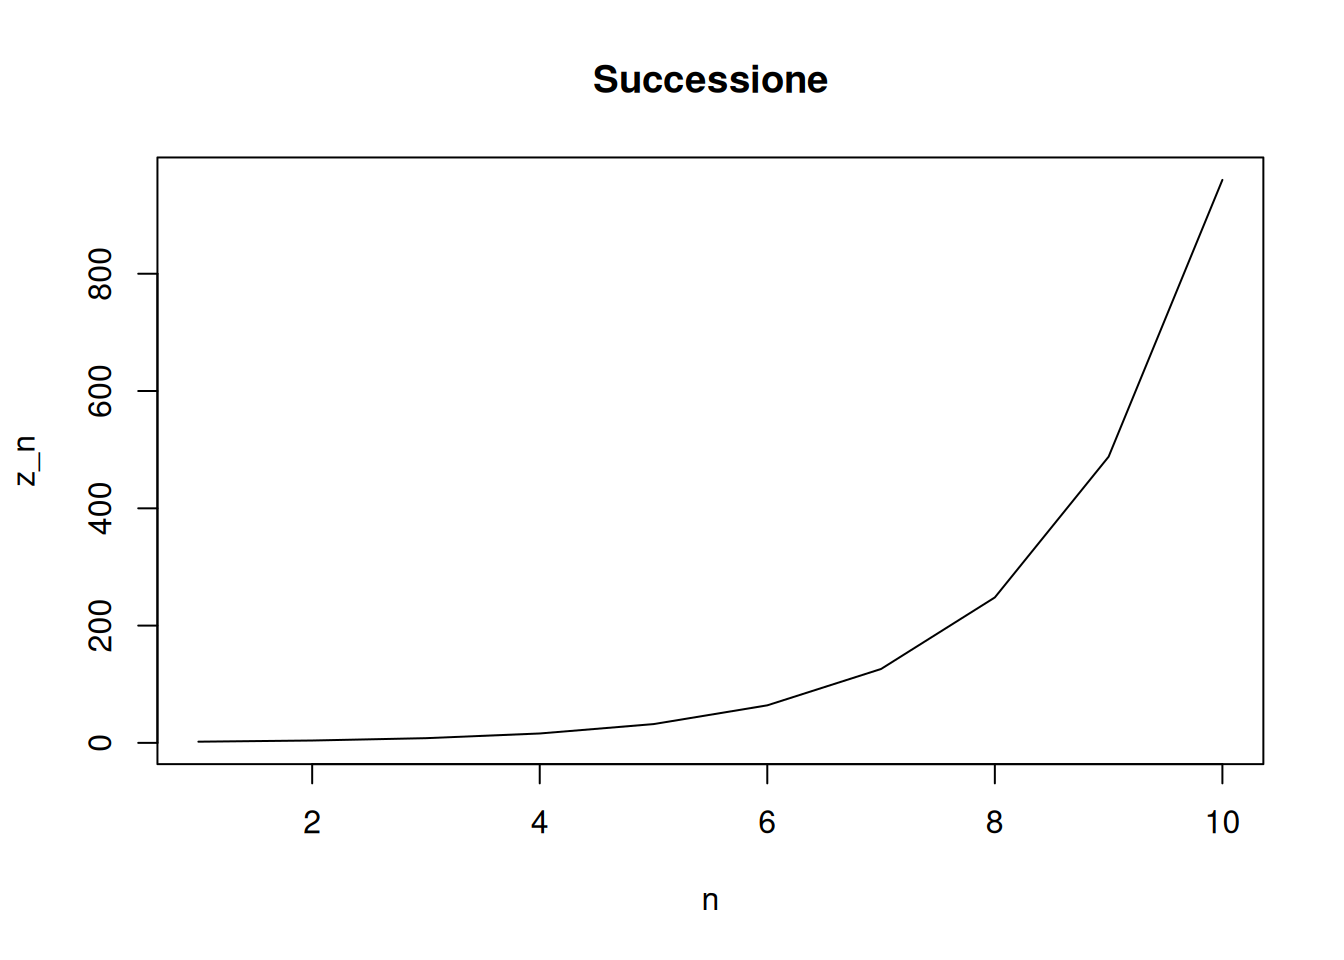
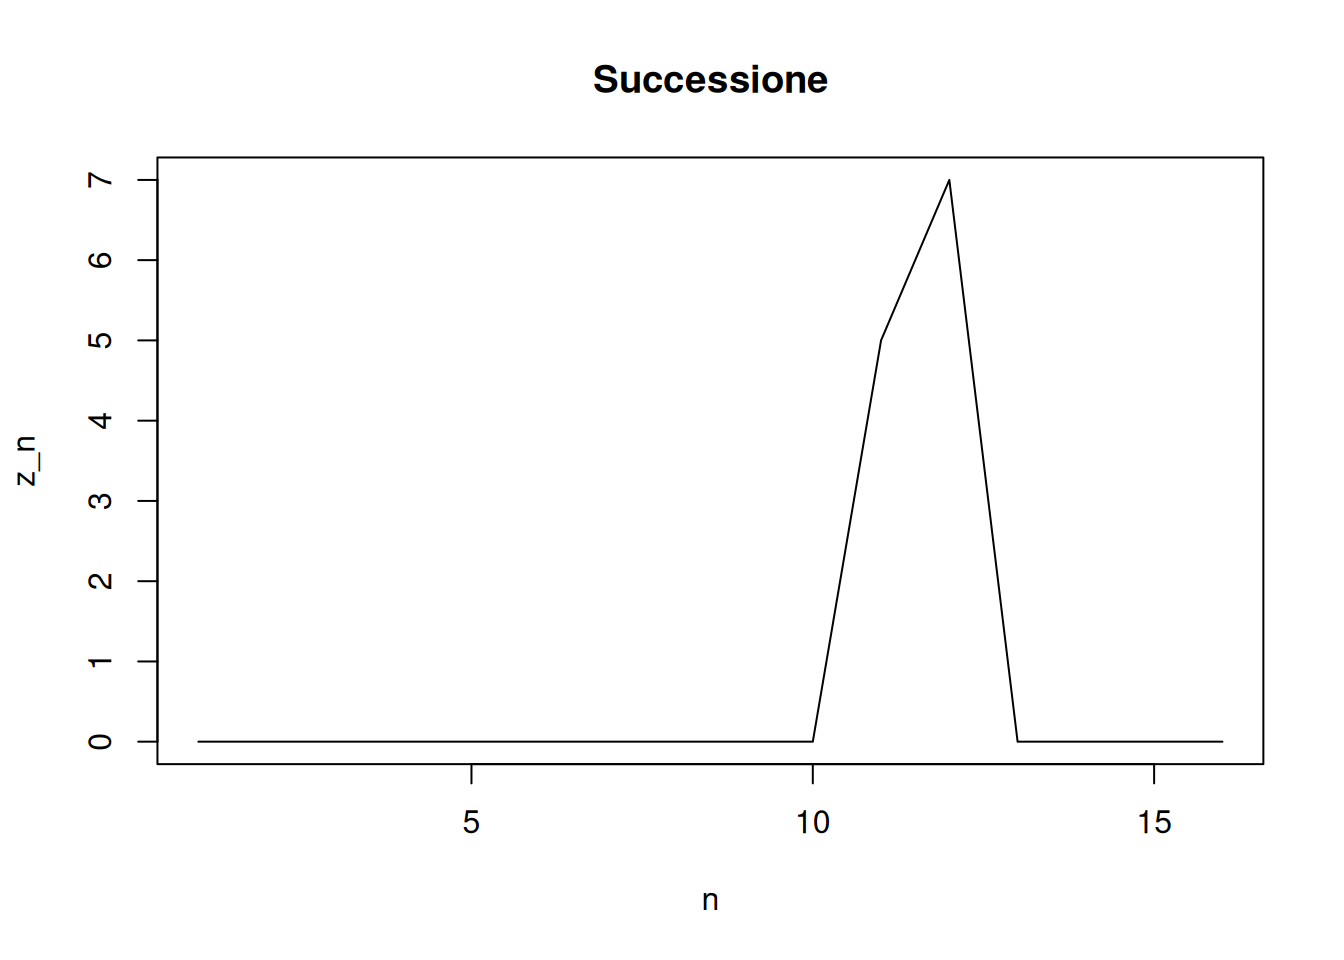
Aggiornamenti automatici

diff --git a/docs/posts/luna/index.html b/docs/posts/luna/index.html
@@ -8,7 +8,7 @@
 
 <meta name="author" content="Matteo Pedani">
 
-<title>La luna – matteo blog</title>
+<title>La luna nel pozzo – matteo blog</title>
 <style>
 code{white-space: pre-wrap;}
 span.smallcaps{font-variant: small-caps;}
@@ -181,7 +181,7 @@ window.Quarto = {
 <header id="title-block-header" class="quarto-title-block default page-columns page-full">
   <div class="quarto-title-banner page-columns page-full">
     <div class="quarto-title column-body">
-      <h1 class="title">La luna</h1>
+      <h1 class="title">La luna nel pozzo</h1>
                                 <div class="quarto-categories">
                 <div class="quarto-category">matematica</div>
               </div>
@@ -228,14 +228,16 @@ window.Quarto = {
 </div>
 <section id="la-matematica-si-insegna-male" class="level3">
 <h3 data-anchor-id="la-matematica-si-insegna-male">La matematica si insegna male!</h3>
-<p>La matematica si insegna nella maggior parte dei casi in maniera meccanica.</p>
-<p>Alle superiori ho fatto il perito agrario, e la matematica che mi è rimasta, era incentrata sulle applicazioni alla topografia, quindi seni, coseni per permettere di fare tringolazioni per fare divisoni terreni e rilevamenti. Altre cose imparate delle formule di matematica finaziaria, per l’interesse, semplice e composto. Ed il numero <span class="math inline">\(e\)</span> non era altro che un espediente per fare calcoli più velocemente.</p>
-<p>Ma alla fine delle superiori data la mia passione per le scienze, mi sono iscritto a fisica. Ma anche all’università, i professori esponevano sempre più velocemente le cose in maniera meccanica. Ed ioc non avevo una preparazione adeguata e capii che non riuscivo ad andare avanti. Mi dedicai al cinema vista che era la mia altra passione. Una passione che coltivavo da quando avevo 14 anni e stampavo le foto in camera oscura. Ho frequentato e diplomato il “Centro Sperimentale di Cinematografia” nella sezione di cinema documentario.</p>
-<p>Tutte queste parole per dire una sola cosa che inizio a comprendere solo adesso, non solo io ero e resto un grande ignorante in matematica. Ma sia il metodo di insegnamento alle superiori, sia all’università, sono aridi, cioè non fanno percepire la reale potenza della matematica. Ma mirano a creare delle persone che possono essere al più dei meri calcolatori. In un mondo dove le macchine sono più brave a fare i calcoli, non è più ammissibile! bisogna puntare all’opposto ad un mondo dove la matematica apre gli occhi ad orizzonti più ampi.</p>
+<section id="ed-io-lho-compresa-peggio" class="level4">
+<h4 data-anchor-id="ed-io-lho-compresa-peggio">(ed io l’ho compresa <strong><em>peggio)</em></strong></h4>
+<p>La matematica si insegna nella maggior parte dei casi in maniera meccanica. Alle superiori ho fatto il perito agrario, e la matematica che mi è rimasta, era incentrata sulle applicazioni alla topografia, quindi seni, coseni per permettere di fare triangolazioni per fare divisioni dei terreni e rilevamenti. Altre cose imparate delle formule di matematica finanziaria, per l’interesse, semplice e composto. Ed il numero <span class="math inline">\(e\)</span> non era altro che un espediente per fare calcoli più velocemente.</p>
+<p>Ma alla fine delle superiori data la mia passione per le scienze, mi sono iscritto a fisica. Ma anche all’università, i professori esponevano sempre più velocemente le cose in maniera meccanica. Ed io non avevo una preparazione adeguata e capii che non riuscivo ad andare avanti. Mi dedicai al cinema vista che era la mia altra passione. Una passione che coltivavo da quando avevo 14 anni e stampavo le foto in camera oscura. Ho frequentato e diplomato il “Centro Sperimentale di Cinematografia” nella sezione di cinema documentario.</p>
+<p>Tutte queste parole per dire una sola cosa che inizio a comprendere solo adesso, non solo io ero e resto un grande ignorante in matematica. Ma sia il metodo di insegnamento alle superiori, sia all’università, sono aridi. Non fanno percepire la reale potenza della matematica. Ma mirano a creare delle persone che possono essere al più dei meri calcolatori. In un mondo dove le macchine sono più brave a fare i calcoli, non è più ammissibile! Bisogna puntare all’opposto ad un mondo dove la matematica apre gli occhi ad orizzonti più ampi.</p>
+</section>
 </section>
 <section id="la-luna-nel-pozzo." class="level2">
 <h2 data-anchor-id="la-luna-nel-pozzo.">La luna nel pozzo.</h2>
-<p><strong><em>Siamo in un mondo che percepiamo a 5 dimensioni ma che potrebbe essere monodimensionale</em></strong> <strong><em>anzi a dimensioni infinite.</em></strong></p>
+<p><strong><em>Siamo in un mondo che percepiamo a 5 dimensioni ma che potrebbe essere monodimensionale</em></strong> <strong><em>anzi a dimensioni infinite?</em></strong></p>
 <p>Una sera dopo una giornata faticosa, sono uscito in giardino, ed ho visto la luna piena, e mi sono detto adesso gli faccio delle foto. Ho preso la macchinetta fotografica il cavalletto ed ho iniziato a scattare le foto. Naturalmente dopo pochi minuti la luna <em>scappava</em> dall’inquadratura per effetto della rotazione terrestre.</p>
 <p>Poi dopo un po’ mi sono chiesto: E se io potessi aumentare la risoluzione, interpolando una serie di foto del cielo mentre si muove? Così ho fotografato il cielo, facendo delle foto nel più breve tempo possibile dalla macchinetta fotografica.</p>
 <p>Quindi ho preso carta e matita ed ho disegnato uno schema del cielo l’obbiettivo della macchina fotografica ed il sensore, cercando di visualizzare la relazione tra di loro.</p>
@@ -364,23 +366,19 @@ window.Quarto = {
 </tr>
 </tbody>
 </table>
-<p>ma poi ho detto, facciamo le cose più semplici facciamo una riga per volta. E poi mi sono detto “facciamo finta che” io so quale è il valore del cielo a più alta risoluzione. Il valore del cielo che leggo con il sensore non è altro che lo somma in un dato intorno. Ed ipotizziamo che il cielo non cambi tra uno scatto e l’altro. Allora ho scritto due sequenze di numeri. La prima lista era la lista del valore di luminosità delle stelle ad alta risoluzione, ipotizzando che tra una foto e l’altra il cielo si sposti di un <span class="math inline">\(1/k\)</span> di pixel, ne ho fatto la somma ogni <span class="math inline">\(k\)</span>, e visto che la macchina foto grafica non mi avrebbe dato valori infiniti ma numeri interi con un valore massimo finito. Ho limitato i miei numeri da 0 fino a 9. Bene! Ho preso carta e matita e mi sono messo a fare i conti.</p>
+<p>Poi ho detto, facciamo le cose più semplici facciamo una riga per volta. E poi mi sono detto “facciamo finta che” io so quale è il valore del cielo a più alta risoluzione. Il valore del cielo che leggo con il sensore non è altro che lo somma in un dato intorno. Ed ipotizziamo che il cielo non cambi tra uno scatto e l’altro. Ho scritto due sequenze di numeri. La prima lista era la lista del valore di luminosità delle stelle ad alta risoluzione, ipotizzando che tra una foto e l’altra il cielo si sposti di un <span class="math inline">\(1/k\)</span> di pixel, ne ho fatto la somma ogni <span class="math inline">\(k\)</span>, e visto che la macchina foto grafica non mi avrebbe dato valori infiniti ma numeri interi con un valore massimo finito. Ho limitato i miei numeri da 0 fino a 9. Bene! Ho preso carta e matita e mi sono messo a fare i conti.</p>
 <p><strong>Cielo A</strong></p>
-<p><span class="math inline">\((1,3,4,5,1,0,2,3,6,4,7,5,7,0,,,)\)</span></p>
+<p><span class="math inline">\((a_0,a_1,a_2,a_3,...,a_n)\)</span></p>
 <p><strong>Sensore B</strong></p>
-<p><span class="math inline">\((13,13,10,8,6,11,15,20,22,23,19,12,7,0)\)</span></p>
+<p><span class="math inline">\((b_0,b_1,b_2,b_3,...,b_n)\)</span></p>
 <p>In pratica ho due insiemi <span class="math inline">\(A\)</span> e <span class="math inline">\(B\)</span> dove ogni termine di <span class="math inline">\(B\)</span> è dato dalla somma dei <span class="math inline">\(k\)</span> termini di <span class="math inline">\(A\)</span> ad esempio con <span class="math inline">\(K=4\)</span></p>
 <p><span class="math display">\[
 b_n = a_{n-3} + a_{n-2} + a_{n-1} + a_{n-0}
 \]</span></p>
-<p>cioè per k generico ogni termine <span class="math inline">\(b_n\)</span></p>
-<p><span class="math display">\[
-b_n = a_{n-k-1} + a_{n-k-2} + a_{n-k-3} + ... + a_{n-k-k}
-\]</span></p>
 <p>Da come abbiamo definito <span class="math inline">\(A\)</span> e <span class="math inline">\(B\)</span> possiamo calcolare “quasi” ogni punto di <span class="math inline">\(B\)</span> è uguale alla sommatoria di <span class="math inline">\(k\)</span> punti precedenti ad <span class="math inline">\(A\)</span></p>
 <p>E qui mi sono fermato per parecchio tempo, in pratica non conoscevo neanche il modo per comunicare quello che immaginavo, non avevo parole per comunicarlo.</p>
 <p>Mi sono messo a studiare. Ma la vastità degli argomenti é tale che ogni volta ne ero affascinato.</p>
-<p>Facendo queste considerazioni abbiamo anche detto che ad ogni passo <span class="math inline">\(t\)</span> ci spostiamo di <span class="math inline">\(1\)</span></p>
+<p>Facendo queste considerazioni abbiamo anche detto che ad ogni passo <span class="math inline">\(k\)</span> ci spostiamo di <span class="math inline">\(1\)</span></p>
 <p>E guardando meglio ci accorgiamo che non è tanto importante tutta sommatoria ma il primo e l’ultimo termine della sommatoria. E che la sommatoria potrebbe essere fatta <span class="math inline">\(k = 1000\)</span> oppure <span class="math inline">\(k = 50\)</span> oppure <span class="math inline">\(k =3\)</span> e sarebbero importanti solo i termini <span class="math inline">\(a_k\)</span> e <span class="math inline">\(a_0\)</span></p>
 <p><span class="math display">\[ B = \int A\]</span> <span class="math display">\[A = \Delta B \]</span></p>
 <p>Ora</p>
@@ -392,7 +390,7 @@ b_n = a_{n-k-1} + a_{n-k-2} + a_{n-k-3} + ... + a_{n-k-k}
 <p>Iniziamo quindi definendo la sequenza iniziale <span class="math inline">\(a_1\)</span> come:</p>
 <div class="cell">
 <div class="sourceCode cell-code" id="cb1"><pre class="sourceCode r code-with-copy"><code class="sourceCode r"><span id="cb1-1"><a href="#cb1-1" aria-hidden="true" tabindex="-1"></a><span class="co"># Definizione della sequenza iniziale</span></span>
-<span id="cb1-2"><a href="#cb1-2" aria-hidden="true" tabindex="-1"></a>z <span class="ot">&lt;-</span> <span class="fu">c</span>(<span class="dv">3</span>,<span class="dv">6</span>,<span class="dv">7</span>,<span class="dv">9</span>,<span class="dv">2</span>)</span>
+<span id="cb1-2"><a href="#cb1-2" aria-hidden="true" tabindex="-1"></a>z <span class="ot">&lt;-</span> <span class="fu">c</span>(<span class="dv">31</span>,<span class="dv">3</span>,<span class="dv">4</span>,<span class="dv">5</span>,<span class="dv">1</span>,<span class="dv">0</span>,<span class="dv">2</span>,<span class="dv">3</span>,<span class="dv">6</span>,<span class="dv">4</span>,<span class="dv">7</span>,<span class="dv">5</span>,<span class="dv">7</span>,<span class="dv">0</span>,<span class="dv">0</span>,<span class="dv">0</span>,<span class="dv">0</span>)</span>
 <span id="cb1-3"><a href="#cb1-3" aria-hidden="true" tabindex="-1"></a></span>
 <span id="cb1-4"><a href="#cb1-4" aria-hidden="true" tabindex="-1"></a><span class="co"># Numero di elementi nella sequenza iniziale</span></span>
 <span id="cb1-5"><a href="#cb1-5" aria-hidden="true" tabindex="-1"></a>n <span class="ot">&lt;-</span> <span class="fu">length</span>(z)</span>
@@ -415,7 +413,7 @@ b_n = a_{n-k-1} + a_{n-k-2} + a_{n-k-3} + ... + a_{n-k-k}
 </div>
 <div class="sourceCode cell-code" id="cb3"><pre class="sourceCode r code-with-copy"><code class="sourceCode r"><span id="cb3-1"><a href="#cb3-1" aria-hidden="true" tabindex="-1"></a><span class="fu">cat</span>(z_new, <span class="st">"</span><span class="sc">\n</span><span class="st">"</span>)</span></code><button title="Copia negli appunti" class="code-copy-button"><i class="bi"></i></button></pre></div>
 <div class="cell-output cell-output-stdout">
-<pre><code>2 4 8 16 32 64 126 248 488 960 </code></pre>
+<pre><code>0 0 0 0 0 0 0 0 0 0 5 7 0 0 0 0 </code></pre>
 </div>
 <div class="sourceCode cell-code" id="cb5"><pre class="sourceCode r code-with-copy"><code class="sourceCode r"><span id="cb5-1"><a href="#cb5-1" aria-hidden="true" tabindex="-1"></a><span class="co"># Creazione del grafico della sequenza generata</span></span>
 <span id="cb5-2"><a href="#cb5-2" aria-hidden="true" tabindex="-1"></a><span class="fu">plot</span>(z_new, <span class="at">type =</span> <span class="st">"l"</span>, <span class="at">xlab =</span> <span class="st">"n"</span>, <span class="at">ylab =</span> <span class="st">"z_n"</span>, <span class="at">main =</span> <span class="st">"Successione"</span>)</span></code><button title="Copia negli appunti" class="code-copy-button"><i class="bi"></i></button></pre></div>
@@ -435,7 +433,7 @@ b_n = a_{n-k-1} + a_{n-k-2} + a_{n-k-3} + ... + a_{n-k-k}
 <p>Possiamo scrivere il programma in questo modo:</p>
 <div class="cell">
 <div class="sourceCode cell-code" id="cb6"><pre class="sourceCode r code-with-copy"><code class="sourceCode r"><span id="cb6-1"><a href="#cb6-1" aria-hidden="true" tabindex="-1"></a><span class="co"># Definiamo la serie</span></span>
-<span id="cb6-2"><a href="#cb6-2" aria-hidden="true" tabindex="-1"></a>serie <span class="ot">&lt;-</span> <span class="fu">c</span>(<span class="dv">2</span>, <span class="dv">4</span>, <span class="dv">8</span>, <span class="dv">16</span>, <span class="dv">32</span>)</span>
+<span id="cb6-2"><a href="#cb6-2" aria-hidden="true" tabindex="-1"></a>serie <span class="ot">&lt;-</span> <span class="fu">c</span>(<span class="dv">1</span>,<span class="dv">3</span>,<span class="dv">4</span>,<span class="dv">5</span>,<span class="dv">1</span>,<span class="dv">0</span>,<span class="dv">2</span>,<span class="dv">3</span>,<span class="dv">6</span>,<span class="dv">4</span>,<span class="dv">7</span>,<span class="dv">5</span>,<span class="dv">7</span>,<span class="dv">0</span>,<span class="dv">0</span>,<span class="dv">0</span>,<span class="dv">0</span>)</span>
 <span id="cb6-3"><a href="#cb6-3" aria-hidden="true" tabindex="-1"></a></span>
 <span id="cb6-4"><a href="#cb6-4" aria-hidden="true" tabindex="-1"></a><span class="co"># Inizializziamo il vettore delle derivate</span></span>
 <span id="cb6-5"><a href="#cb6-5" aria-hidden="true" tabindex="-1"></a>derivate <span class="ot">&lt;-</span> <span class="fu">numeric</span>(<span class="fu">length</span>(serie)<span class="sc">-</span><span class="dv">1</span>)</span>
@@ -452,7 +450,7 @@ b_n = a_{n-k-1} + a_{n-k-2} + a_{n-k-3} + ... + a_{n-k-k}
 </div>
 <div class="sourceCode cell-code" id="cb8"><pre class="sourceCode r code-with-copy"><code class="sourceCode r"><span id="cb8-1"><a href="#cb8-1" aria-hidden="true" tabindex="-1"></a><span class="fu">cat</span>(derivate, <span class="st">"</span><span class="sc">\n</span><span class="st">"</span>)</span></code><button title="Copia negli appunti" class="code-copy-button"><i class="bi"></i></button></pre></div>
 <div class="cell-output cell-output-stdout">
-<pre><code>2 4 8 16 </code></pre>
+<pre><code>2 1 1 -4 -1 2 1 3 -2 3 -2 2 -7 0 0 0 </code></pre>
 </div>
 <div class="sourceCode cell-code" id="cb10"><pre class="sourceCode r code-with-copy"><code class="sourceCode r"><span id="cb10-1"><a href="#cb10-1" aria-hidden="true" tabindex="-1"></a><span class="co"># Creazione del grafico della sequenza generata</span></span>
 <span id="cb10-2"><a href="#cb10-2" aria-hidden="true" tabindex="-1"></a><span class="fu">plot</span>(derivate, <span class="at">type =</span> <span class="st">"l"</span>, <span class="at">xlab =</span> <span class="st">"n"</span>, <span class="at">ylab =</span> <span class="st">"z_n"</span>, <span class="at">main =</span> <span class="st">"Successione"</span>)</span></code><button title="Copia negli appunti" class="code-copy-button"><i class="bi"></i></button></pre></div>

diff --git a/docs/index.html b/docs/index.html
@@ -210,7 +210,7 @@ window.Quarto = {
 
 <div class="quarto-listing quarto-listing-container-default" id="listing-listing">
 <div class="list quarto-listing-default">
-<div class="quarto-post image-right" data-index="0" data-categories="bWF0ZW1hdGljYQ==" data-listing-date-sort="1682200800000" data-listing-file-modified-sort="1734879562567" data-listing-date-modified-sort="NaN" data-listing-reading-time-sort="8" data-listing-word-count-sort="1554">
+<div class="quarto-post image-right" data-index="0" data-categories="bWF0ZW1hdGljYQ==" data-listing-date-sort="1682200800000" data-listing-file-modified-sort="1734883276345" data-listing-date-modified-sort="NaN" data-listing-reading-time-sort="8" data-listing-word-count-sort="1537">
 <div class="thumbnail">
 <p><a href="./posts/luna/index.html" class="no-external"></a></p><a href="./posts/luna/index.html" class="no-external">
 <p class="card-img-top"><img src="posts/luna/index_files/figure-html/unnamed-chunk-1-1.png"  class="thumbnail-image card-img"/></p>
@@ -218,7 +218,7 @@ window.Quarto = {
 </div>
 <div class="body">
 <h3 class="no-anchor listing-title">
-<a href="./posts/luna/index.html" class="no-external">La luna</a>
+<a href="./posts/luna/index.html" class="no-external">La luna nel pozzo</a>
 </h3>
 <div class="listing-subtitle">
 <a href="./posts/luna/index.html" class="no-external"></a>
@@ -229,7 +229,7 @@ matematica
 </div>
 </div>
 <div class="listing-description">
-<a href="./posts/luna/index.html" class="no-external">La matematica si insegna nella maggior parte dei casi in maniera meccanica.</a>
+<a href="./posts/luna/index.html" class="no-external">La matematica si insegna nella maggior parte dei casi in maniera meccanica. Alle superiori ho fatto il perito agrario, e la matematica che mi è rimasta, era incentrata sulle…<span class="math inline"></span></a>
 </div>
 </div>
 <div class="metadata">
